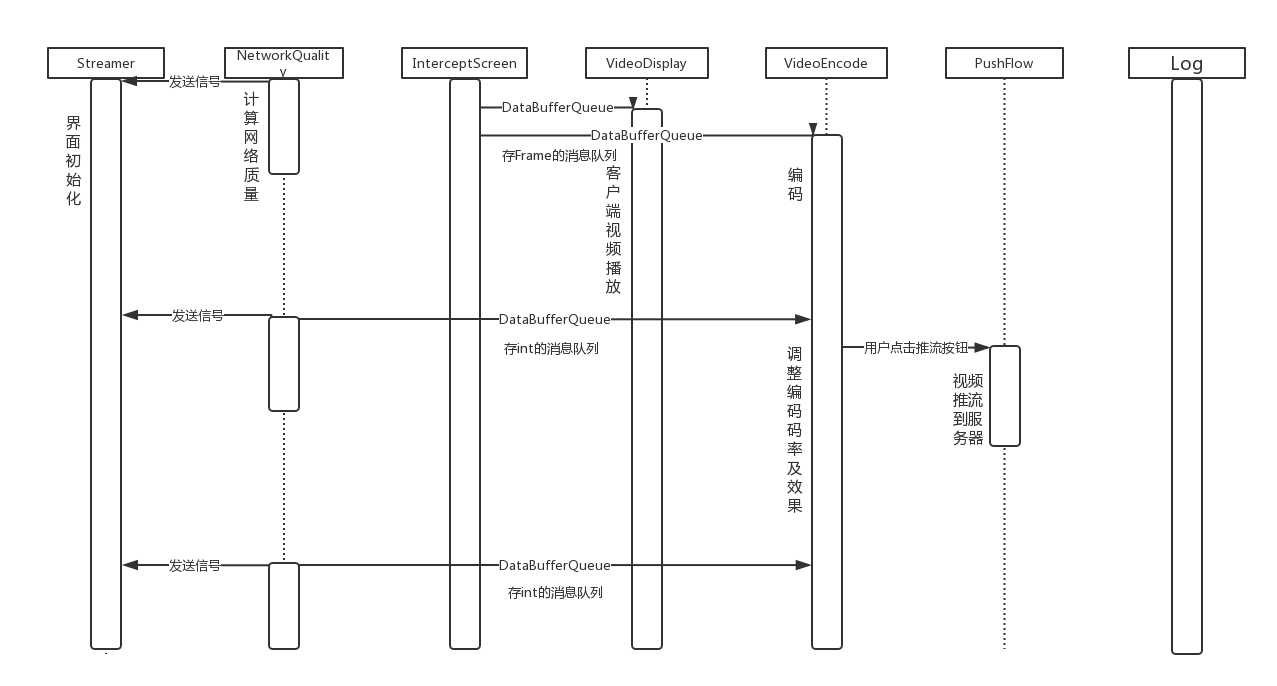
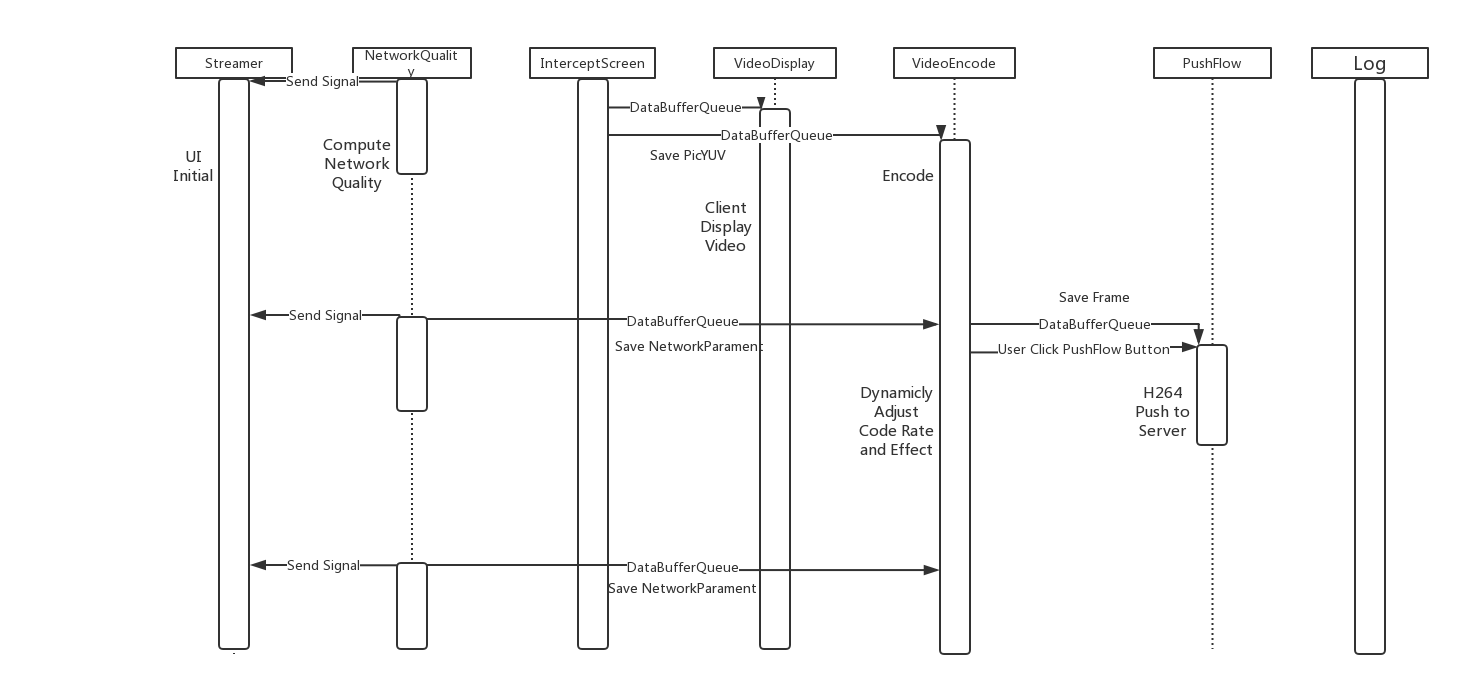
Add Sequence Diagram Pic

diff --git a/README.md b/README.md
@@ -1,7 +1,8 @@
 # 桌面推流器 NudgeStreamer
 Homepage:https://github.com/Eric7Coding/NudgeStreamer
 
-## 项目简单介绍
+## 项目简单介绍 Project Introduction
+### 中文 Chinese
 1. 实现2个显示器的桌面数据采集（扩展屏），采集后的格式为YUV420P
 2. 计算网络质量参数，网络影响包含抖动、延时的影响
 3. 编码采集到的数据为H264
@@ -10,7 +11,10 @@ Homepage:https://github.com/Eric7Coding/NudgeStreamer
 6. 使用第三方播放器能播放推流的视频
 7. 简单的GUI
 
+### English
+
 ## 各文件夹简单介绍
+### 中文 Chinese
 - bin：项目生成文件
 - lib：项目用到的第三方库的头文件以及库文件，lib下有各种非自行编译的第三方库的32位以及64位的库，默认为64位
 - Log：项目日志功能模块
@@ -21,5 +25,22 @@ Homepage:https://github.com/Eric7Coding/NudgeStreamer
 - lib下第三方库某些库需要自行编译，如librtmp
 - 本程序非自行编译的第三方库均是64位的库，在32位环境下编译请将第三方库换成32位对应的库
 
-## 序列图
-![]()
+### English
+
+## 序列图 Sequence Diagram
+![Sequence Diagram](https://raw.githubusercontent.com/Eric7Coding/NudgeStreamer/master/NudgeStreamer_Sequence_Diagram.png)
+
+## 分层架构图 Layer Architecture
+![Layer Architecture](https://raw.githubusercontent.com/Eric7Coding/NudgeStreamer/master/NudgeStreamer_Layer_Architecture.png)
+
+## 数据流图 Data-Flow Graph
+### 软件数据流图 NudgeStreamer Data-Flow Graph
+![NudgeStreamer Data-Flow Graph](https://raw.githubusercontent.com/Eric7Coding/NudgeStreamer/master/NudgeStreamer_Data-Flow_Graph.png)
+
+### 异常数据流图 Error Data-Flow Graph
+![Error Data-Flow Graph](https://raw.githubusercontent.com/Eric7Coding/NudgeStreamer/master/Error_Data-Flow_Graph.png)
+
+### 日志数据流图 Log Data-Flow Graph
+![Log Data-Flow Graph](https://raw.githubusercontent.com/Eric7Coding/NudgeStreamer/master/Log_Data-Flow_Graph.png)
+
+## 
